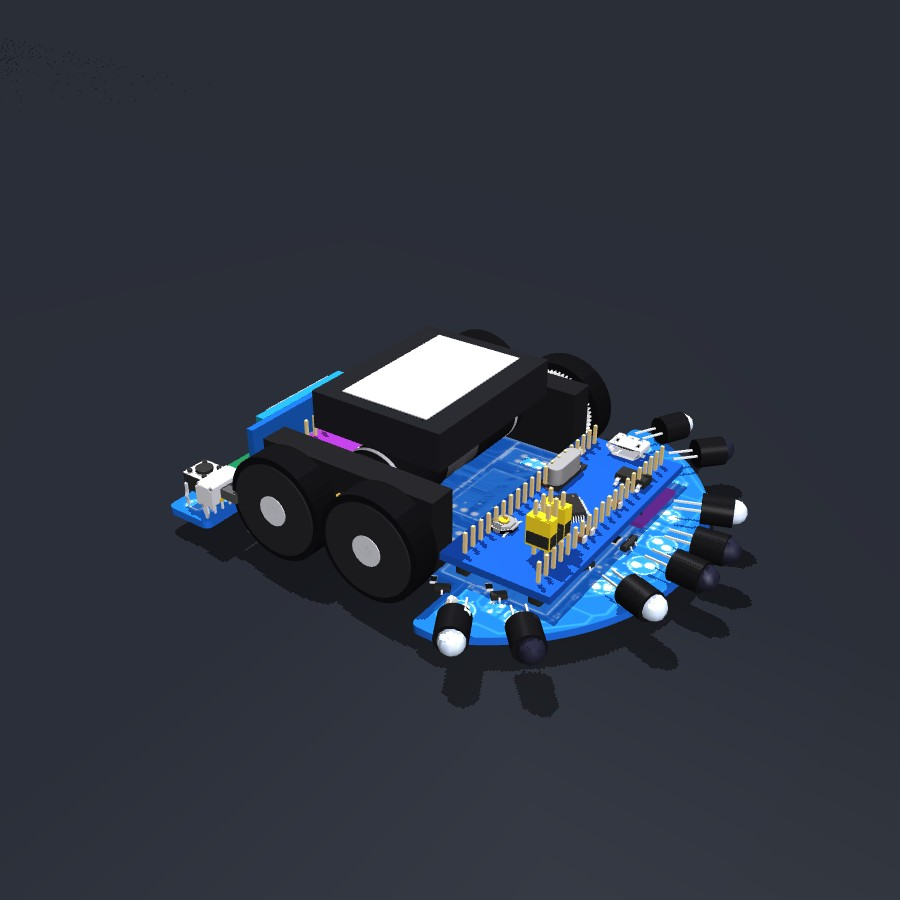
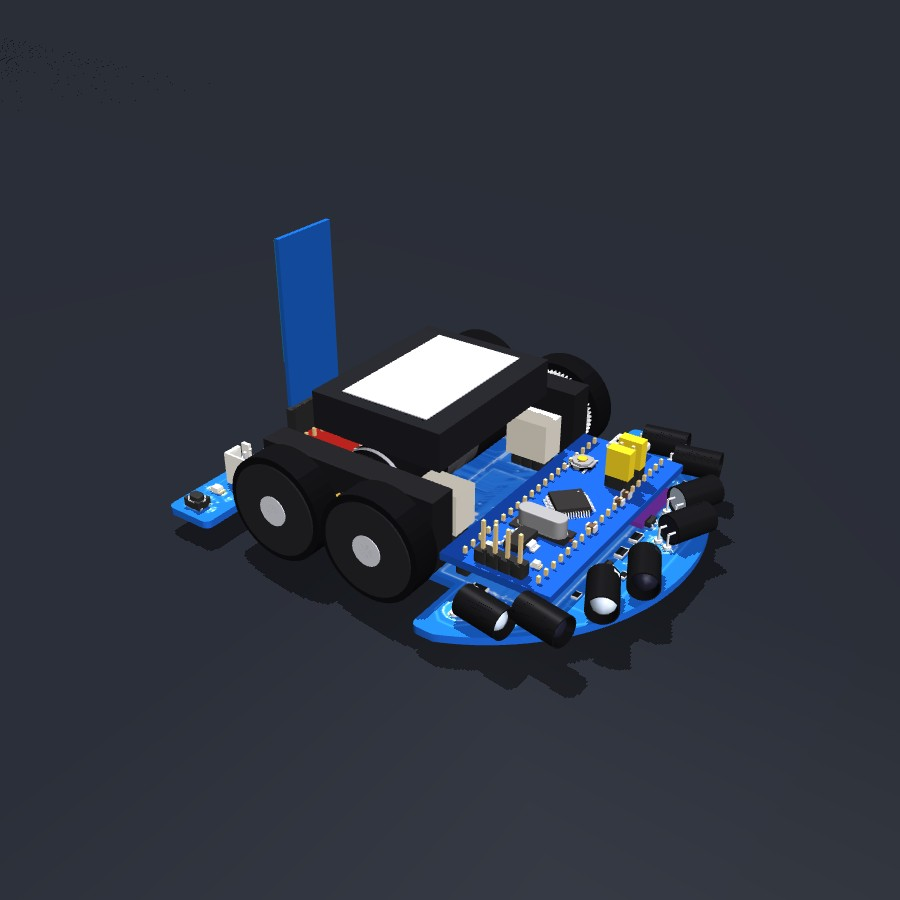
Bulebule: IR LEDs bent across their pads (side pairs outward, front pairs ahead past the edge), parts on the board
KiCad's z is kept (z 0 on the board), so through-hole parts sit on it with their legs through it, trimmed. Module
headers upside down. The rear after the 2018 layout: TB6612FNG carrier, three DC-DC converters on rows of 3, the
HC-05 standing in its socket, the battery's connector, the speaker, red LEDs and buttons on the tabs; the motors'
encoder headers with their IDC sockets; the Blue Pill's parts on their sides (USB left, SWD header right).

Changed region(s): [[0.4667, 0.4356, 0.84, 0.8089], [0.1867, 0.2178, 0.4044, 0.6222]]

diff --git a/ratasim/bulebule/model.py b/ratasim/bulebule/model.py
@@ -1,6 +1,6 @@
-"""Bulebule's model: its board (pcb.py), its components (KiCad's 3D models, parts.py) where its layout and photos put
-them, its modules (Blue Pill, GY-6500, DRV8833, HC-05, DC-DC converters) built from those parts on boards of their
-sizes, its printed and mechanical parts (mounts, motors, gears, wheels, battery) from its CadQuery dimensions.
+"""Bulebule's model (its 2018 board): its board (pcb.py), its components (KiCad's 3D models, parts.py) where its layout
+and photos put them, its modules (Blue Pill, GY-6500, TB6612FNG, HC-05, DC-DC converters) built from those parts on
+boards of their sizes, its printed and mechanical parts (mounts, motors, gears, wheels, battery) from its CadQuery dimensions.
 Collisions: the board's outline as a convex hull up to the battery, its four tires; each side's wheels coupled.
 
     python -m ratasim.bulebule.model        (builds its meshes into build/cad)
@@ -18,11 +18,17 @@ from . import config as B, parts, pcb
 
 OUT = os.path.join(B.BUILD, 'cad')
 PT = B.PCB_TOP
-BLUE_PILL = (0.0, 31.8)             # its centre: midway between its pin rows (layout)
+BLUE_PILL = (0.0, 31.83)            # its centre: midway between its pin rows (layout)
 WHEELS = [(s, f) for s in (-1, 1) for f in (1, -1)]     # side (-1 left), front (+1) / rear (-1)
 WHEEL_X = B.WHEELS_SEPARATION / 2
-# The IR LEDs' pads on the dome (layout, mm); each pair an emitter (outer) and a receiver
-LEDS = [(3.85, 50.4, 'rx'), (13.6, 47.2, 'tx'), (30.3, 39.0, 'rx'), (34.15, 29.7, 'tx')]
+# The IR LEDs, soldered lying on the board (its build guide), each bent across its two pads (layout): left side
+# (the right one mirrored), the pads' centre (mm), where it looks (deg, 90 straight ahead), emitter or receiver.
+# The side pairs, by the centre, look 25 deg ahead of sideways; the front pairs, on the shoulders, ahead.
+IR_LEDS = [(-4.00, 49.85, 155.0, 'rx'), (-14.02, 46.85, 153.8, 'tx'),
+           (-30.03, 38.82, 100.9, 'rx'), (-34.03, 29.84, 100.0, 'tx')]
+IR_AXIS_Z = 3.0                     # their axis over the board: their heat-shrink sleeves (r 3) lie on it
+IR_BEND = 1.6                       # from their pads to their base, along their legs
+LEGS = B.PCB_THICK + 1.0            # through-hole legs under a board's surface, trimmed
 
 
 # ---- geometry helpers: triangles (n, 3, 3) mm --------------------------------------------------------------------
@@ -62,6 +68,25 @@ def cylinder(r, length, n=40):
     return prism([(r * math.cos(t), r * math.sin(t)) for t in np.linspace(0, 2 * math.pi, n, endpoint=False)], length)
 
 
+def tube(r_out, r_in, length, n=40):
+    """An open tube along x from 0 to length, its axis on y = z = 0."""
+    o = [(math.cos(t), math.sin(t)) for t in np.linspace(0, 2 * math.pi, n, endpoint=False)]
+    tris = []
+    for i in range(n):
+        j = (i + 1) % n
+        for r, inner in ((r_out, False), (r_in, True)):
+            a0, b0 = np.r_[0, r * o[i][0], r * o[i][1]], np.r_[0, r * o[j][0], r * o[j][1]]
+            a1, b1 = a0 + [length, 0, 0], b0 + [length, 0, 0]
+            q = [[a0, b0, b1], [a0, b1, a1]]
+            tris += [t[::-1] for t in q] if inner else q
+        for x, start in ((0.0, True), (length, False)):
+            oi, oj = np.r_[x, r_out * o[i][0], r_out * o[i][1]], np.r_[x, r_out * o[j][0], r_out * o[j][1]]
+            ii, ij = np.r_[x, r_in * o[i][0], r_in * o[i][1]], np.r_[x, r_in * o[j][0], r_in * o[j][1]]
+            q = [[oi, oj, ij], [oi, ij, ii]]
+            tris += [t[::-1] for t in q] if start else q
+    return np.array(tris)
+
+
 def gear(teeth, module, width):
     """A spur gear along x (its axis on y = z = 0): trapezoid teeth on its root circle."""
     rp, ra, rf = module * teeth / 2, module * (teeth / 2 + 1), module * (teeth / 2 - 1.25)
@@ -84,54 +109,75 @@ def place(tris, at=(0, 0, 0), *rotations):
 GREY = {(210, 209, 199): (205, 205, 208), (228, 227, 207): (230, 228, 215)}     # KiCad's metal grey: tin
 
 
+def ir_led(add, x, y, deg, kind):
+    """A 5 mm LED lying on the board: its legs up from its pads, bent towards where it looks; in black heat-shrink."""
+    d = np.array([math.cos(math.radians(deg)), math.sin(math.radians(deg)), 0.0])
+    t = np.array([-d[1], d[0], 0.0])
+    za = PT + IR_AXIS_Z
+    base = np.array([x, y, za]) + IR_BEND * d
+    lens = (200, 215, 235) if kind == 'tx' else (30, 30, 45)                # water clear / black
+    for rgb, tris in parts.load('led5'):
+        if rgb == (178, 25, 13):                                            # its body (KiCad's: on the board, 3 mm up)
+            add(place(tris - [0, 0, 3.0], (0, 0, 0), ('x', -90), ('z', deg - 90)) + base, lens)
+    add(place(tube(3.0, 2.75, 9.4), (0, 0, 0), ('z', deg)) + base - 0.5 * d, (18, 18, 20))
+    for s in (-1, 1):
+        p = np.array([x, y, 0.0]) + s * 1.27 * t
+        add(place(cylinder(0.25, za - PT + LEGS), (0, 0, 0), ('y', -90)) + p + [0, 0, PT - LEGS], (205, 205, 208))
+        add(place(cylinder(0.25, IR_BEND + 0.5), (0, 0, 0), ('z', deg)) + p + [0, 0, za], (205, 205, 208))
+        add(place(cylinder(0.8, 0.5), (0, 0, 0), ('y', -90)) + p + [0, 0, PT], (205, 205, 210))     # its solder
+
+
 def build():
     groups = {}
 
     def add(tris, rgb, body='chassis'):
         groups.setdefault((body, tuple(rgb)), []).append(np.asarray(tris, float))
 
-    def part(name, at, *rotations, recolour=None, body='chassis'):
+    def part(name, at, *rotations, recolour=None, body='chassis', flip=False):
+        """A part on a board's surface at z; flip: a pin header upside down (its short pins up through a module);
+        legs trimmed 1 mm under the board."""
         for rgb, tris in parts.load(name):
-            add(place(tris, at, *rotations), (recolour or {}).get(rgb, GREY.get(rgb, rgb)), body)
+            t = tris * [1, -1, -1] + [0, 0, 2.54] if flip else tris.copy()
+            t[..., 2] = np.maximum(t[..., 2], -LEGS)
+            add(place(t, at, *rotations), (recolour or {}).get(rgb, GREY.get(rgb, rgb)), body)
 
     os.makedirs(OUT, exist_ok=True)
     pcb.build(OUT)
     bx, by = BLUE_PILL
-    # The Blue Pill on its headers, the GY-6500 flat under it
-    zb = PT + 2.5
+    # The Blue Pill on its pin headers (their plastic under it), the GY-6500 flat under it; its USB on the left end,
+    # its BOOT jumpers and reset button by it, its crystal, regulator, LEDs and SWD header (vertical) to the right
+    zb = PT + 2.54
     add(place(box(53.34, 22.86, 1.6), (bx, by, zb)), (22, 72, 170))
     top = zb + 1.6
     for s in (-1, 1):
-        part('hdr20', (bx, by + s * 7.62, PT - 3.0), ('z', 90))
-    part('lqfp48', (bx + 2, by, top), ('z', 45))
-    part('hc49', (bx - 9, by - 6.5, top))
+        part('hdr20', (bx, by + s * 7.62, PT), ('z', 90), flip=True)
+    part('lqfp48', (bx, by, top), ('z', 45))
+    part('hc49', (bx + 10.0, by, top), ('z', 90))
     part('usb', (bx - 24.6, by, top), ('z', 90))
-    part('sot223', (bx - 15, by + 6, top), ('z', 180))
-    part('hdr2x3', (bx + 15, by + 4, top), ('z', 90))
-    for k in (0, 1):                                                       # its BOOT jumpers' caps
-        add(place(box(2.5, 5.0, 6.0), (bx + 15 - 2.54 + 2.54 * 2 * k, by + 4, top + 2.6)), (230, 200, 30))
-    part('tl3342', (bx + 13, by - 6.5, top))
-    for dx in (-19, -16):
-        part('led0805', (bx + dx, by - 8, top))
-    for dx in (-5, 6, 9):
+    part('sot223', (bx + 16.0, by - 1.0, top), ('z', 90))
+    part('hdr4', (bx + 24.13, by, top))
+    part('hdr2x3', (bx - 14.0, by + 4.5, top), ('z', 90))
+    for dx in (-2.54, 2.54):                                                # its BOOT jumpers' caps
+        add(place(box(2.5, 5.0, 6.0), (bx - 14.0 + dx, by + 4.5, top + 2.6)), (230, 200, 30))
+    part('tl3342', (bx - 15.0, by - 5.5, top))
+    for dy in (-5.0, 5.0):
+        part('led0805', (bx + 20.5, by + dy, top), ('z', 90))
+    for dx in (5.0, -6.0, -9.0):
         part('c0805', (bx + dx, by + 7.5, top), ('z', 90))
     add(place(box(15, 25, 1.0), (bx - 14, by, PT)), (110, 45, 150))                 # GY-6500
     part('qfn24', (bx - 14, by, PT + 1.0))
-    # The IR LEDs lying on the dome's edge, in black heat-shrink with their tips out
-    for x, y, kind in LEDS:
+    # The IR LEDs in black heat-shrink, their legs bent up from their pads; their MOSFETs and resistors
+    for x, y, deg, kind in IR_LEDS:
         for s in (-1, 1):
-            px, py = s * x, y
-            heading = math.degrees(math.atan2(py - pcb.DOME_CY, px))            # outward, from the dome's centre
-            colour = (200, 215, 235) if kind == 'tx' else (30, 30, 45)
-            for rgb, tris in parts.load('led5'):
-                t = place(tris, (0, 0, 2.9), ('x', -90))          # its axis along +y, its legs back, on the board
-                add(place(t, (px, py, PT), ('z', heading - 90)), colour if rgb == (178, 25, 13) else (205, 205, 208))
-            sleeve = place(cylinder(3.0, 6.0), (0, 5.4, 2.9), ('z', 90))
-            add(place(sleeve, (px, py, PT), ('z', heading - 90)), (18, 18, 20))
-            part('sot23', (s * (x - 3), y - 5.5, PT), ('z', heading))
-            part('r0805', (s * (x - 4.5), y - 8.5, PT), ('z', heading))
-    for s in (-1, 1):                                                         # its red LEDs on the shoulders
-        part('led0805', (s * 33, 27.5, PT), recolour={(87, 173, 113): (220, 30, 30)})
+            ir_led(add, s * abs(x), y, deg if s < 0 else 180 - deg, kind)
+    for s in (-1, 1):
+        part('sot23', (s * 9.0, 44.9, PT), ('z', -90))                        # the side emitters' MOSFETs
+        part('r0805', (s * 9.0, 48.35, PT))
+        part('r1206', (s * 3.0, 44.85, PT))
+        for xr in (19.0, 26.0):
+            part('r0805', (s * xr, 44.33, PT))
+        part('sot23', (s * 29.6, 34.35, PT), ('z', 180 if s < 0 else 0))     # the front emitters' MOSFETs
+        part('r1206', (s * 27.2, 29.4, PT), ('z', 90))
     # Mounts, motors (Faulhaber 15 mm, IE2 encoders inside), pinions, gears, wheels, axles
     mx = B.WAIST - B.MOUNT[0] / 2
     for s in (-1, 1):
@@ -157,25 +203,34 @@ def build():
     bx_, by_, bz_ = B.BATTERY
     add(place(box(bx_, by_, bz_), (0, 0, B.MOTOR_Z + B.MOTOR_D / 2)), (26, 26, 30))
     add(place(box(bx_ - 6, by_ - 10, 0.2), (0, 0, B.MOTOR_Z + B.MOTOR_D / 2 + bz_)), (200, 200, 205))       # its label
-    # Behind: the DRV8833 module on two header rows, the HC-05 standing, two DC-DC converters, buttons, switch, JST
-    for yy in (-10.2, -26.7):
-        part('hdr8', (0, yy, PT - 3.0), ('z', 90))
-    zd = PT + 2.5
-    add(place(box(20.3, 19.0, 1.2), (0, -18.45, zd)), (120, 40, 140))
-    part('htssop16', (0, -18.45, zd + 1.2))
-    for dx in (-6, 6):
-        part('c0805', (dx, -14, zd + 1.2))
-    hc = place(box(37.0, 15.5, 1.6), (0, 0, 0), ('x', 90)) + [0, -33.0, PT + 0.5]
-    add(hc, (20, 80, 165))
-    add(place(box(27.0, 13.0, 2.2), (0, 0, 0), ('x', 90)) + [0, -34.6, PT + 1.8], (25, 120, 150))
-    add(place(box(20.0, 9.0, 0.2), (0, 0, 0), ('x', 90)) + [0, -36.85, PT + 3.8], (232, 232, 228))
+    # The motors' encoder headers, in front of them, with their ribbon cables' IDC sockets
     for s in (-1, 1):
-        add(place(box(17.0, 11.0, 1.0), (s * 19, -31.0, PT)), (20, 100, 60))
-        part('sot23_6', (s * 15, -31.0, PT + 1.0))
-        part('srn4018', (s * 22, -31.0, PT + 1.0))
-        part('push6', (s * 34.0, -31.0, PT))
-    part('slide', (34.5, -24.5, PT), ('z', 180))
-    part('jst2', (-21.0, -22.5, PT))
+        part('hdr2x3', (s * 16.01, 14.04, PT))
+        add(place(box(6.2, 9.4, 8.6), (s * 16.01, 14.04, PT + 2.54)), (214, 206, 188))
+    # Behind (layout, the 2018 board): the TB6612FNG carrier on two rows of 8 pins, three DC-DC converters on rows of
+    # 3, the HC-05 standing in a 6-pin socket, the battery's connector, the speaker; red LEDs and buttons on the tabs
+    for yy in (-11.56, -26.92):
+        part('hdr8', (0, yy, PT), ('z', 90), flip=True)
+    zd = PT + 2.54
+    add(place(box(20.3, 20.3, 1.0), (0, -19.24, zd)), (205, 40, 32))
+    part('ssop24', (0, -19.24, zd + 1.0), ('z', 90))
+    for dx in (-6.5, 6.5):
+        part('c0805', (dx, -14.5, zd + 1.0))
+    for xc, yc in ((-16.0, -10.18), (16.0, -10.18), (-16.0, -24.18)):
+        part('hdr3', (xc, yc, PT), ('z', 90), flip=True)
+        add(place(box(10.2, 12.7, 1.0), (xc, yc + 1.27 - 6.35, PT + 2.54)), (25, 105, 60))
+        part('sot23_6', (xc - 2.5, yc - 7.5, PT + 3.54))
+        part('srn4018', (xc + 2.0, yc - 7.0, PT + 3.54))
+    part('sock6', (0, -32.18, PT), ('z', 90))
+    zh = PT + 8.5 + 1.0
+    add(place(box(15.5, 1.0, 37.0), (0, -32.18, zh)), (20, 80, 165))                # the HC-05 on its carrier
+    add(place(box(13.0, 2.2, 26.5), (0, -33.0, zh + 9.5)), (25, 120, 150))
+    part('jst2', (24.0, -29.25, PT), ('z', 90))
+    add(place(box(5.0, 4.0, 2.5), (-24.6, -31.9, PT)), (22, 22, 24))                # the speaker
+    add(place(cylinder(0.8, 0.1), (0, 0, 0), ('y', -90)) + [-24.6, -31.9, PT + 2.5], (60, 60, 64))
+    for s in (-1, 1):
+        part('led1206', (s * 30.4, -32.2, PT), ('z', 90), recolour={(87, 173, 113): (220, 30, 30)})
+        part('pts810', (s * 36.3, -31.6, PT), ('z', 90))
     # meshes and manifest
     manifest = []
     for k, ((body, rgb), items) in enumerate(sorted(groups.items())):

diff --git a/ratasim/bulebule/parts.py b/ratasim/bulebule/parts.py
@@ -1,6 +1,6 @@
 """The 3D models of Bulebule's components from KiCad's library (kicad-packages3D, CC BY-SA 4.0 with an exception for
-the designs that use them), downloaded and tessellated at build time (gmsh, `pip install -e .[cad]`), normalised:
-centred in x and y, standing on z = 0, mm.
+the designs that use them), downloaded and tessellated at build time (gmsh, `pip install -e .[cad]`), centred in x and y, mm. KiCad's z is kept:
+z = 0 is the board's surface, so through-hole parts sit on it with their legs through the board.
 """
 import os
 import urllib.request
@@ -17,21 +17,23 @@ PARTS = {
     'usb': 'Connector_USB.3dshapes/USB_Micro-B_Molex_47346-0001.step',
     'sot223': 'Package_TO_SOT_SMD.3dshapes/SOT-223.step',
     'hdr20': 'Connector_PinHeader_2.54mm.3dshapes/PinHeader_1x20_P2.54mm_Vertical.step',
-    'hdr2x3': 'Connector_PinHeader_2.54mm.3dshapes/PinHeader_2x03_P2.54mm_Vertical.step',
-    'hdr6a': 'Connector_PinHeader_2.54mm.3dshapes/PinHeader_1x06_P2.54mm_Horizontal.step',
     'hdr8': 'Connector_PinHeader_2.54mm.3dshapes/PinHeader_1x08_P2.54mm_Vertical.step',
+    'hdr4': 'Connector_PinHeader_2.54mm.3dshapes/PinHeader_1x04_P2.54mm_Vertical.step',
+    'hdr3': 'Connector_PinHeader_2.54mm.3dshapes/PinHeader_1x03_P2.54mm_Vertical.step',
+    'hdr2x3': 'Connector_PinHeader_2.54mm.3dshapes/PinHeader_2x03_P2.54mm_Vertical.step',
+    'sock6': 'Connector_PinSocket_2.54mm.3dshapes/PinSocket_1x06_P2.54mm_Vertical.step',
     'tl3342': 'Button_Switch_SMD.3dshapes/SW_SPST_TL3342.step',
-    'htssop16': 'Package_SO.3dshapes/HTSSOP-16-1EP_4.4x5mm_P0.65mm_EP3.4x5mm.step',    # DRV8833
+    'pts810': 'Button_Switch_SMD.3dshapes/SW_SPST_PTS810.step',
+    'ssop24': 'Package_SO.3dshapes/SSOP-24_5.3x8.2mm_P0.65mm.step',       # TB6612FNG
     'qfn24': 'Package_DFN_QFN.3dshapes/QFN-24-1EP_3x3mm_P0.4mm_EP1.75x1.6mm.step',      # MPU-6500
     'jst2': 'Connector_JST.3dshapes/JST_XH_B2B-XH-A_1x02_P2.50mm_Vertical.step',
-    'slide': 'Button_Switch_THT.3dshapes/SW_Slide_SPDT_Angled_CK_OS102011MA1Q.step',
-    'push6': 'Button_Switch_THT.3dshapes/SW_PUSH_6mm.step',
-    'buzzer': 'Buzzer_Beeper.3dshapes/Buzzer_12x9.5RM7.6.step',
     'sot23': 'Package_TO_SOT_SMD.3dshapes/SOT-23.step',
     'sot23_6': 'Package_TO_SOT_SMD.3dshapes/SOT-23-6.step',
     'r0805': 'Resistor_SMD.3dshapes/R_0805_2012Metric.step',
+    'r1206': 'Resistor_SMD.3dshapes/R_1206_3216Metric.step',
     'c0805': 'Capacitor_SMD.3dshapes/C_0805_2012Metric.step',
     'led0805': 'LED_SMD.3dshapes/LED_0805_2012Metric.step',
+    'led1206': 'LED_SMD.3dshapes/LED_1206_3216Metric.step',
     'srn4018': 'Inductor_SMD.3dshapes/L_Bourns-SRN4018.step',
 }
 CACHE = os.path.join(B.BUILD, 'parts')
@@ -71,8 +73,8 @@ def tessellate(step):
 
 
 def load(name):
-    """[(rgb, triangles (n, 3, 3) mm)] of a part, normalised."""
-    npz = os.path.join(CACHE, name + '.npz')
+    """[(rgb, triangles (n, 3, 3) mm)] of a part, centred in x and y, z = 0 on the board."""
+    npz = os.path.join(CACHE, name + '.z0.npz')
     if not os.path.exists(npz):
         os.makedirs(CACHE, exist_ok=True)
         step = os.path.join(CACHE, name + '.step')
@@ -81,7 +83,7 @@ def load(name):
         groups = tessellate(step)
         allv = np.concatenate([t.reshape(-1, 3) for _, t in groups])
         lo, hi = allv.min(axis=0), allv.max(axis=0)
-        shift = np.array([(lo[0] + hi[0]) / 2, (lo[1] + hi[1]) / 2, lo[2]])
+        shift = np.array([(lo[0] + hi[0]) / 2, (lo[1] + hi[1]) / 2, 0.0])
         np.savez_compressed(npz, rgb=np.array([c for c, _ in groups]),
                             **{f't{i}': t - shift for i, (_, t) in enumerate(groups)})
     z = np.load(npz)

diff --git a/docs/robots.md b/docs/robots.md
@@ -56,13 +56,17 @@ By [turmandreams](https://github.com/turmandreams) · [turmandreams/gamusino](ht
 By [Bulebots](https://github.com/Bulebots) (the Bulebule contributors) ·
 [Bulebots/bulebule](https://github.com/Bulebots/bulebule) (GPLv3; its board CC BY-SA)
 
-- **Model** (`ratasim/bulebule`, an approximation: its design files went with Upverter): its board's outline fitted on
-  the screenshot of its Upverter layout in Bulebots'
-  [2018 talk](https://github.com/Bulebots/20180216-bulebule-making-of-presentation), its artwork recoloured from it; its
-  components from [KiCad's 3D library](https://gitlab.com/kicad/libraries/kicad-packages3D) (downloaded at build
-  time); its modules (Blue Pill, GY-6500, DRV8833, HC-05, DC-DC) on boards of their sizes; its mounts, motors, gears
-  and wheels from its CadQuery scripts and its firmware's geometry (110 g, 65 mm between wheels, 22.3 mm between
-  axles, 21.7 mm wheels). Each side's two wheels geared together.
+- **Model** (`ratasim/bulebule`, an approximation of its 2018 board: its design files went with Upverter): its board's
+  outline fitted on the screenshot of its Upverter layout in Bulebots'
+  [2018 talk](https://github.com/Bulebots/20180216-bulebule-making-of-presentation), its artwork recoloured from it, its
+  parts where that layout's pads and the talk's photos put them; its components from
+  [KiCad's 3D library](https://gitlab.com/kicad/libraries/kicad-packages3D) (downloaded at build time), through-hole
+  ones on the board with their legs through it; its modules (Blue Pill, GY-6500, TB6612FNG, HC-05 in its socket, three
+  DC-DC converters) on boards of their sizes; its IR LEDs in heat-shrink, lying on the board and bent across their pads
+  as its build guide says: the side pairs, by the centre, look 25 deg ahead of sideways, the front pairs, on the
+  shoulders, straight ahead past the board's edge; its mounts, motors, gears and wheels from its CadQuery scripts and
+  its firmware's geometry (110 g, 65 mm between wheels, 22.3 mm between axles, 21.7 mm wheels). Each side's two wheels
+  geared together.
 - **Coming:** its firmware, libopencm3 on an STM32F103, its library [mmlib](https://github.com/Bulebots/mmlib) through
   its `platform.h`.
 
